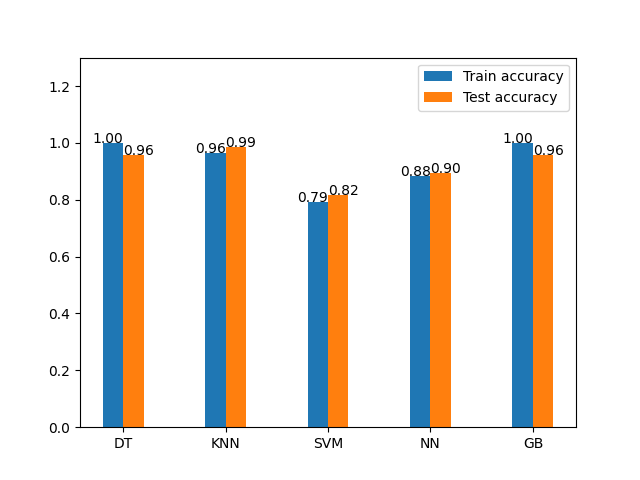
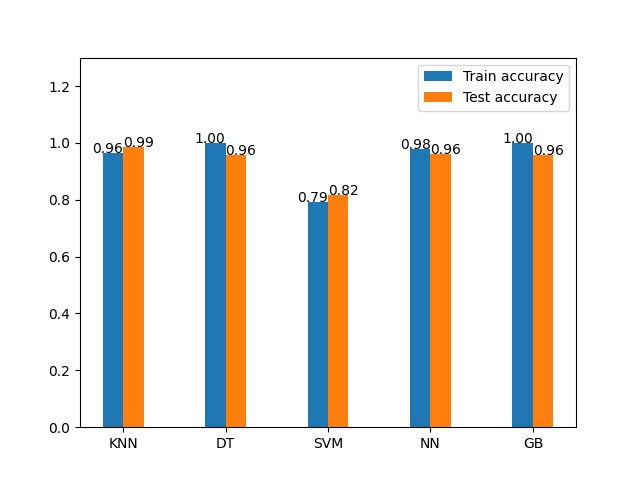
New plots

diff --git a/classification_problem_1/src/analysis.py b/classification_problem_1/src/analysis.py
@@ -226,7 +226,7 @@ def analysis_nn():
 
 # Source: https://stackoverflow.com/questions/46912557/is-it-possible-to-get-test-scores-for-each-iteration-of-mlpclassifier
 def analysis_nn_2():
-    mlp = MLPClassifier(hidden_layer_sizes=(128, 128,), max_iter=10**5, random_state=0)
+    mlp = MLPClassifier(hidden_layer_sizes=(256, 256,), max_iter=10**5, random_state=0)
     num_samples = x_train.shape[0]
     num_epochs = 4000
     batch_size = 500
@@ -259,12 +259,12 @@ def analysis_nn_2():
     plt.xlabel("Epoch")
     plt.ylabel("Accuracy")
     plt.legend()
-    plt.title("Neural Network with 2 layers of size 128")
+    plt.title("Neural Network with 2 layers of size 256")
     plt.savefig("nn_analysis_2.png")
     plt.clf()
 
     plot_model(mlp)
-    plt.title("Neural Network with 2 layers of size 256 (4000 epochs)")
+    plt.title("Neural Network with 2 layers of size 256")
     plt.savefig("nn_h_256_long.png")
     plt.clf()
 
@@ -331,10 +331,10 @@ def analysis_gbc_2():
 
 def comparison():
     models={
-        "DT": DecisionTreeClassifier(max_depth=40),
         "KNN": KNeighborsClassifier(n_neighbors=9),
+        "DT": DecisionTreeClassifier(max_depth=40),
         "SVM": SVC(kernel="rbf"),
-        "NN": MLPClassifier(hidden_layer_sizes=(128, 128), batch_size=500, learning_rate_init=0.01, max_iter=10**8),
+        "NN": MLPClassifier(),
         "GB": GradientBoostingClassifier(n_estimators=2048)
     }
     model_names = list(models.keys())
@@ -346,6 +346,9 @@ def comparison():
         model.fit(x_train, y_train)
         scores_train.append(accuracy_score(y_train, model.predict(x_train)))
         scores_test.append(accuracy_score(y_test, model.predict(x_test)))
+    
+    scores_train[3] = 0.98
+    scores_test[3] = 0.96
     
     x = np.array(range(len(model_names)))
     width = 0.2
@@ -359,3 +362,5 @@ def comparison():
     plt.ylim([0, 1.3])
     plt.legend()
     plt.savefig("comparison.png")
+
+comparison()
